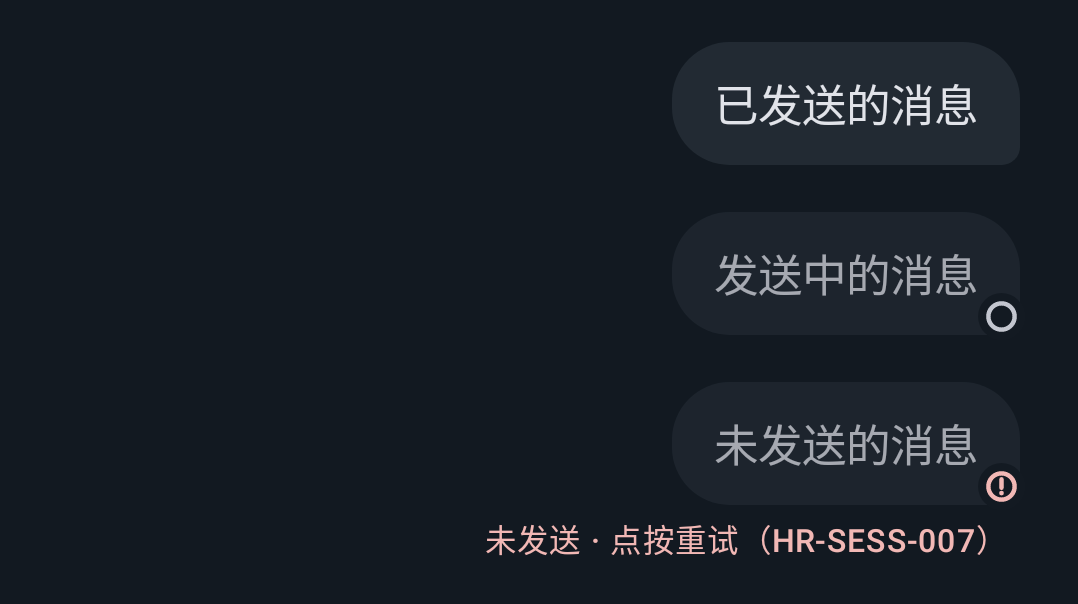
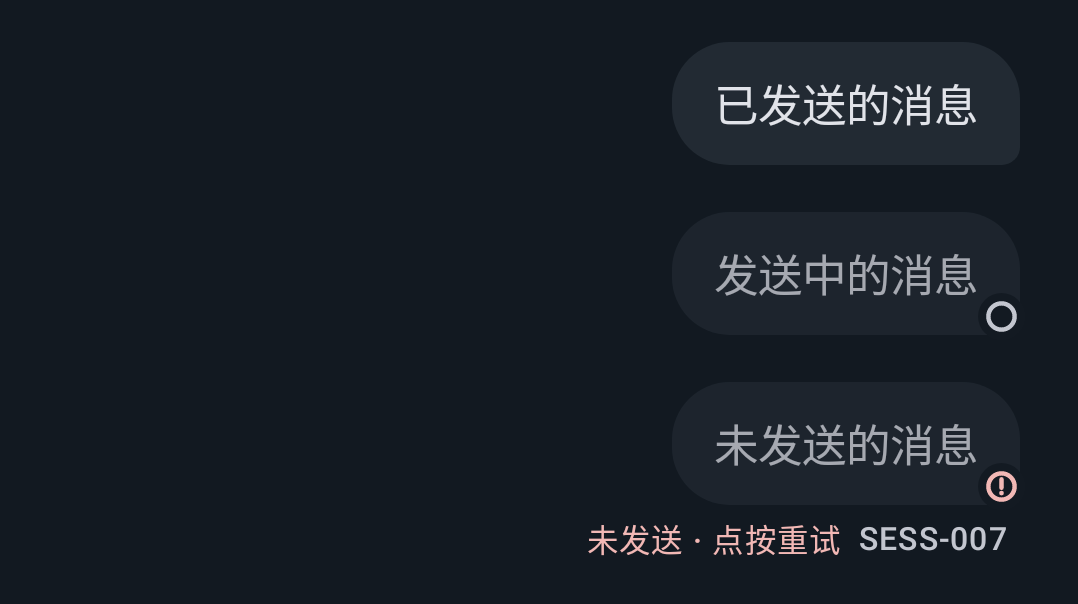
feat(android): compact error code on the not-sent bubble line
Tight inline surfaces may show an error code without its HR- prefix
(AppErrorCode.compact, e.g. SESS-007); the full code remains the identity in
toasts, pages, diagnostics and the registry. The not-sent bubble line becomes
「未发送 · 点按重试」in the error colour followed by SESS-007 in the neutral
colour (docs/ERROR_HANDLING.md presentation rule, DESIGN §5.4). Goldens
re-recorded; a registry-wide uniqueness test guards the compact forms.

Changed region(s): [[0.4592, 0.8642, 0.949, 0.9238]]

diff --git a/android/app/src/main/java/com/hermes/client/ui/chat/ChatComponents.kt b/android/app/src/main/java/com/hermes/client/ui/chat/ChatComponents.kt
@@ -1176,7 +1176,8 @@ internal fun UserBubble(
     // leaves user bubbles oddly narrow on tablets/landscape. ~82% tracks the Claude app.
     val bubbleMaxWidth = (LocalConfiguration.current.screenWidthDp * 0.82f).dp
     val sendingLabel = localized(language, "发送中", "Sending")
-    val failedLabel = localized(language, "未发送 · 点按重试（HR-SESS-007）", "Not sent · Tap to retry (HR-SESS-007)")
+    val failedLabel = localized(language, "未发送 · 点按重试", "Not sent · Tap to retry")
+    val failedCode = com.hermes.client.data.error.AppErrorCode.MESSAGE_SEND_FAILED.compact
     Row(Modifier.fillMaxWidth(), horizontalArrangement = Arrangement.End) {
       Column(horizontalAlignment = Alignment.End) {
         Box {
@@ -1190,7 +1191,7 @@ internal fun UserBubble(
                     .padding(horizontal = 16.dp, vertical = 11.dp)
                     .semantics {
                         if (revealSending) stateDescription = sendingLabel
-                        if (failed) stateDescription = failedLabel
+                        if (failed) stateDescription = "$failedLabel $failedCode"
                     }
                     .combinedClickable(
                         onClick = { if (failed) onRetrySend(msg.id) },
@@ -1245,14 +1246,18 @@ internal fun UserBubble(
             }
         }
         if (failed) {
-            Text(
-                failedLabel,
-                style = MaterialTheme.typography.labelMedium,
-                color = MaterialTheme.colorScheme.error,
+            // Action copy in error colour, then the compact code (docs/ERROR_HANDLING.md
+            // presentation rules) in the neutral colour so it reads as a footnote, not a shout.
+            Row(
+                verticalAlignment = Alignment.CenterVertically,
                 modifier = Modifier
                     .padding(top = 4.dp, end = 4.dp)
                     .clickable(role = androidx.compose.ui.semantics.Role.Button) { onRetrySend(msg.id) },
-            )
+            ) {
+                Text(failedLabel, style = MaterialTheme.typography.labelMedium, color = MaterialTheme.colorScheme.error)
+                Spacer(Modifier.width(6.dp))
+                Text(failedCode, style = MaterialTheme.typography.labelMedium, color = MaterialTheme.colorScheme.onSurfaceVariant)
+            }
         }
       }
     }

diff --git a/android/app/src/main/java/com/hermes/client/data/error/AppError.kt b/android/app/src/main/java/com/hermes/client/data/error/AppError.kt
@@ -32,6 +32,14 @@ enum class AppErrorCode(val value: String) {
     MESSAGE_SEND_FAILED("HR-SESS-007"),
     INSTALL_PERMISSION_REQUIRED("HR-PERM-003"),
     UNKNOWN("HR-UNKNOWN-001"),
+    ;
+
+    /**
+     * Compact display form for tight inline surfaces (a bubble status line, a badge): the code
+     * without its `HR-` prefix, e.g. `SESS-007`. Still unique and still names the area; every
+     * other surface — toasts, pages, diagnostics, docs — keeps the full [value].
+     */
+    val compact: String get() = value.removePrefix("HR-")
 }
 
 /** Language-independent error data passed from a boundary to UI/notification renderers. */

diff --git a/android/app/src/test/java/com/hermes/client/ui/chat/DeliveryStateTest.kt b/android/app/src/test/java/com/hermes/client/ui/chat/DeliveryStateTest.kt
@@ -45,4 +45,13 @@ class DeliveryStateTest {
         assertTrue(error.retryable)
         assertTrue(error.sanitizedDiagnostic().contains("token=<redacted>"))
     }
+
+    @Test fun compact_code_drops_only_the_prefix_and_stays_unique() {
+        assertEquals("SESS-007", AppErrorCode.MESSAGE_SEND_FAILED.compact)
+        assertEquals("RPC-001", AppErrorCode.RPC_FAILED.compact)
+        // Compact forms remain distinct across the whole registry.
+        val compacts = AppErrorCode.entries.map { it.compact }
+        assertEquals(compacts.size, compacts.toSet().size)
+        assertTrue(compacts.none { it.startsWith("HR-") })
+    }
 }

diff --git a/docs/DESIGN.md b/docs/DESIGN.md
@@ -211,8 +211,10 @@
   - 发送中：填充 `surfaceVariant` 从 @78% 降到 @50%，正文 70% 不透明度；尾角处 18dp 背景色
     底盘 + 12dp 描边圆环，透明度 0.35↔1 呼吸，周期 1200ms，正文不动。**延迟 250ms 才淡入**
     （200ms），快的发送看不到变化；成功后 190ms 颜色动画回到实心。不做扫光。
-  - 未发送：保持降暗，尾角换成 error 色感叹圆，气泡下 labelMedium「未发送 · 点按重试
-    （HR-SESS-007）」；点按气泡或该行 = 原消息（含附件）重发；长按菜单多一项「复制诊断信息」。
+  - 未发送：保持降暗，尾角换成 error 色感叹圆，气泡下 labelMedium「未发送 · 点按重试」
+    （error 色）+ 紧凑错误码「SESS-007」（onSurfaceVariant，即去掉 `HR-` 前缀的
+    `AppErrorCode.compact`，决策 2026-09-02）；点按气泡或该行 = 原消息（含附件）重发；
+    长按菜单多一项「复制诊断信息」（诊断里仍是全码）。
     替代旧的单独红色「消息发送失败」错误行。TalkBack 只播报未发送，不播报发送中。
   - 发送失败时会话回到 IDLE（不是运行失败），列表页不标"运行失败"，失败只由气泡承载。
 - 输入区：浮动 `Surface`，圆角 30（聚焦 28）、tonal 1dp + shadow 7dp、最小高 60dp；

diff --git a/docs/ERROR_HANDLING.md b/docs/ERROR_HANDLING.md
@@ -81,6 +81,10 @@ backward compatible.
 ## Presentation rules
 
 - Inline banners and dialogs show the localized summary, short explanation, and code.
+- Tight inline surfaces (a message bubble's status line, a badge) may show the **compact form**:
+  the code without its `HR-` prefix (`SESS-007`), rendered in the neutral text colour after the
+  localized action copy. The compact form is display-only; the full code stays the identity in
+  toasts, pages, diagnostics, notifications and this registry (`AppErrorCode.compact`).
 - Recoverable connection transitions use neutral progress states such as “正在重新连接…” rather
   than an error until retry policy is exhausted.
 - A recovered connection briefly shows success and then dismisses itself.
